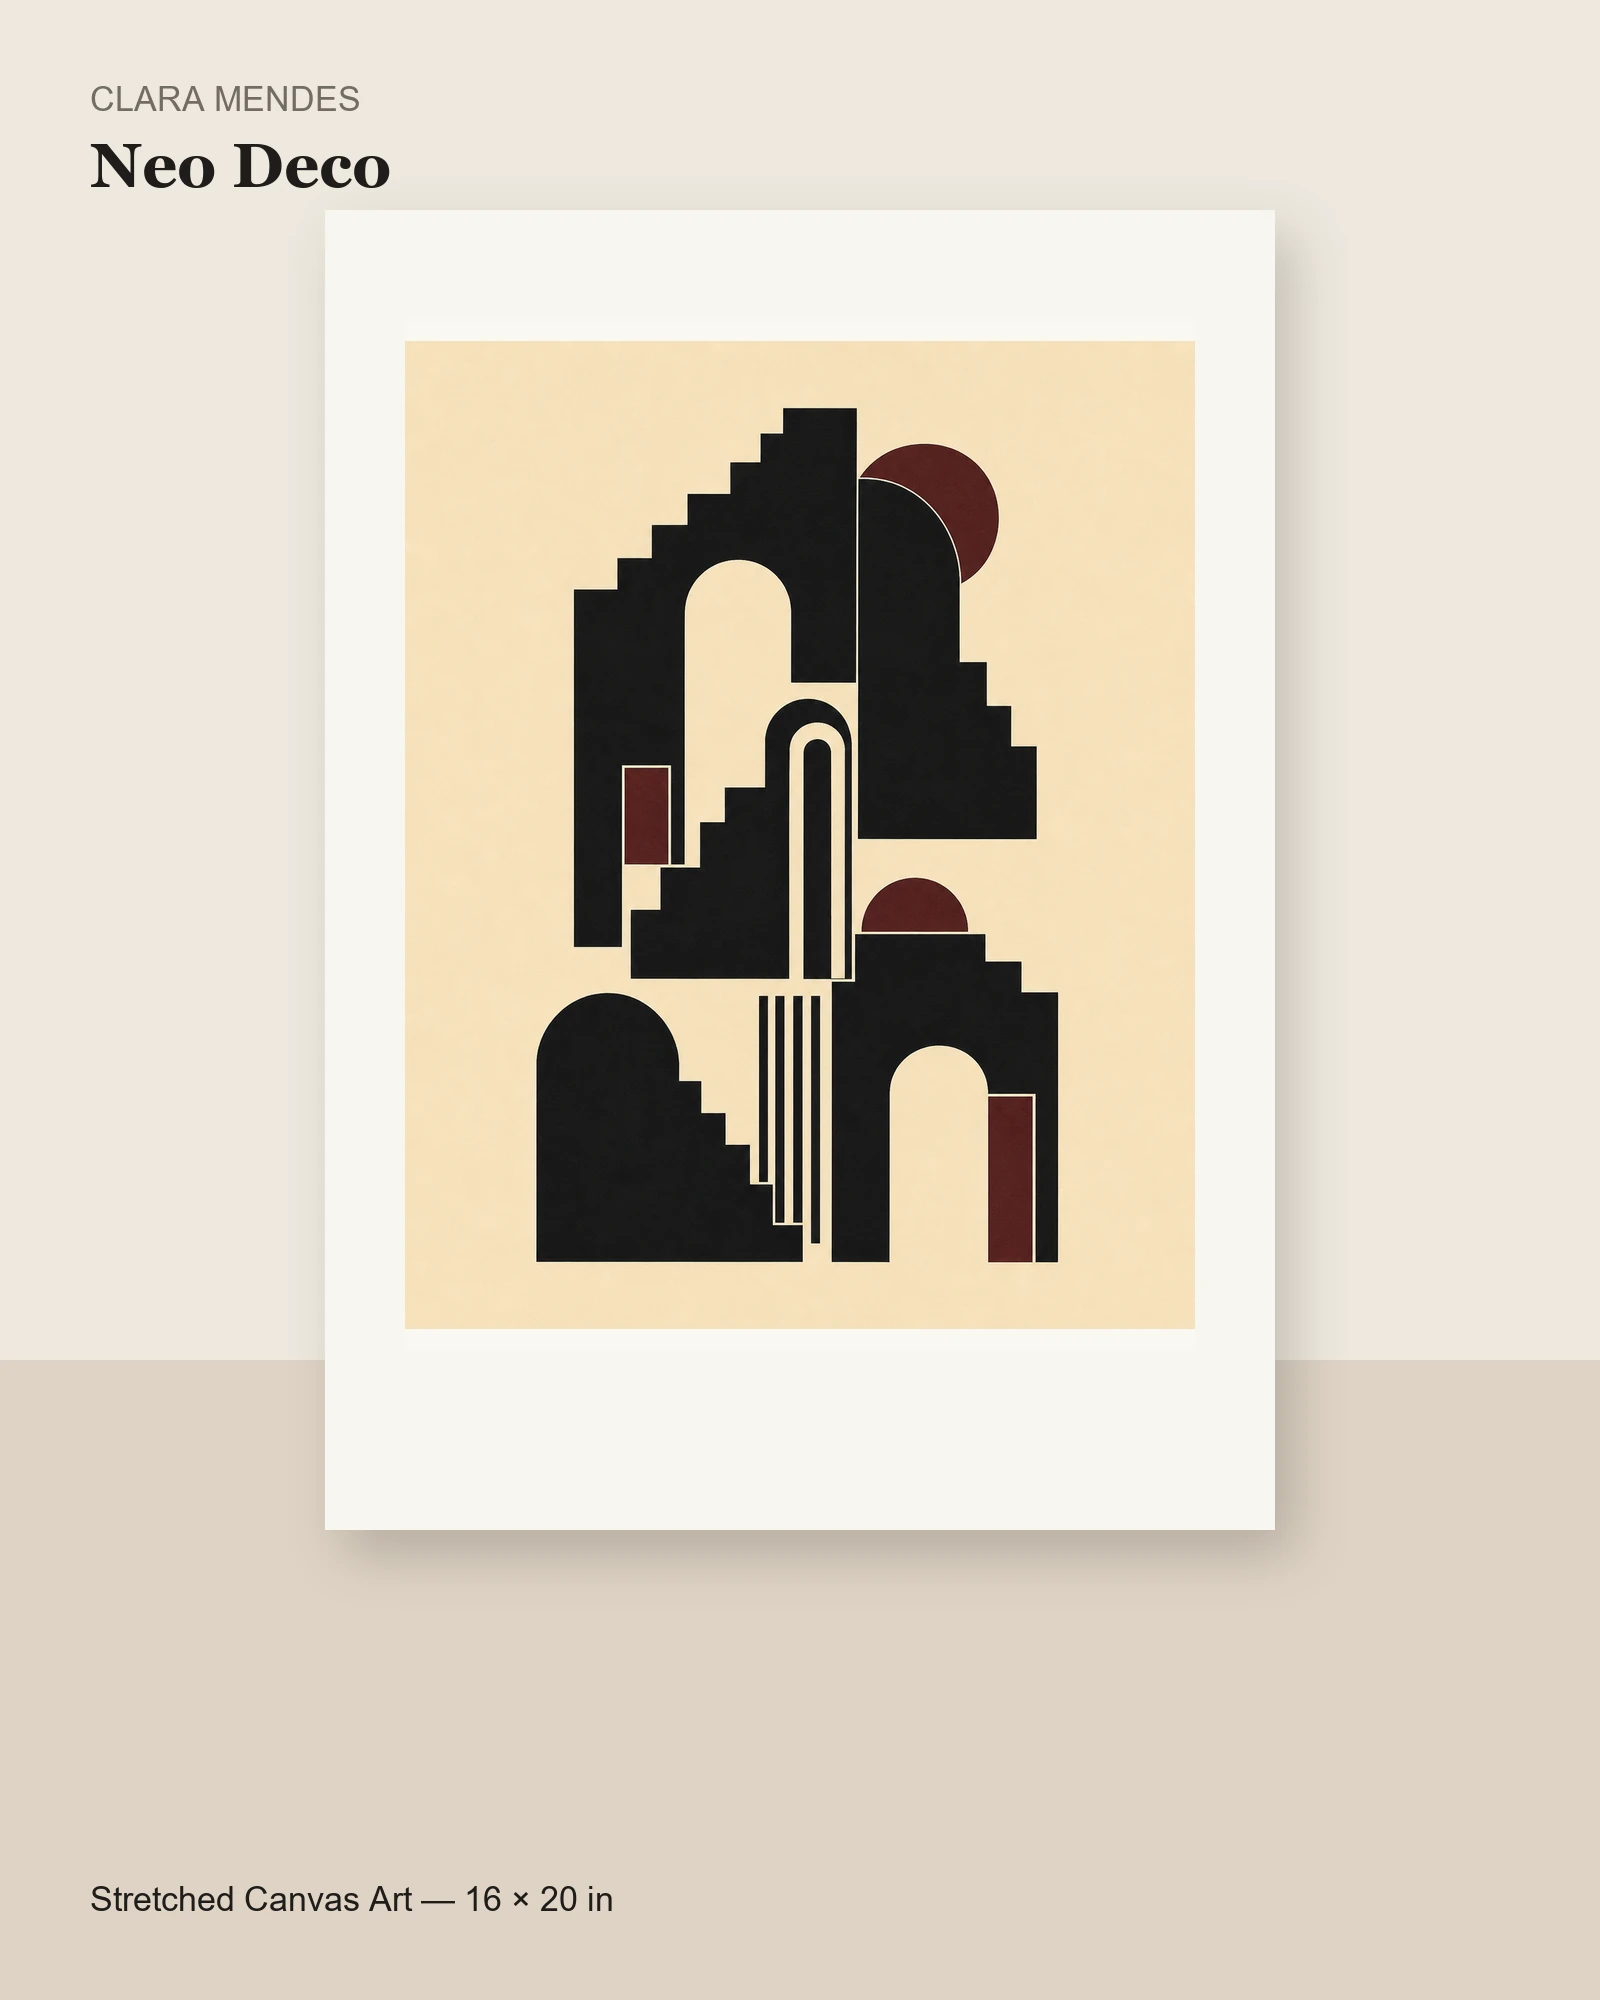
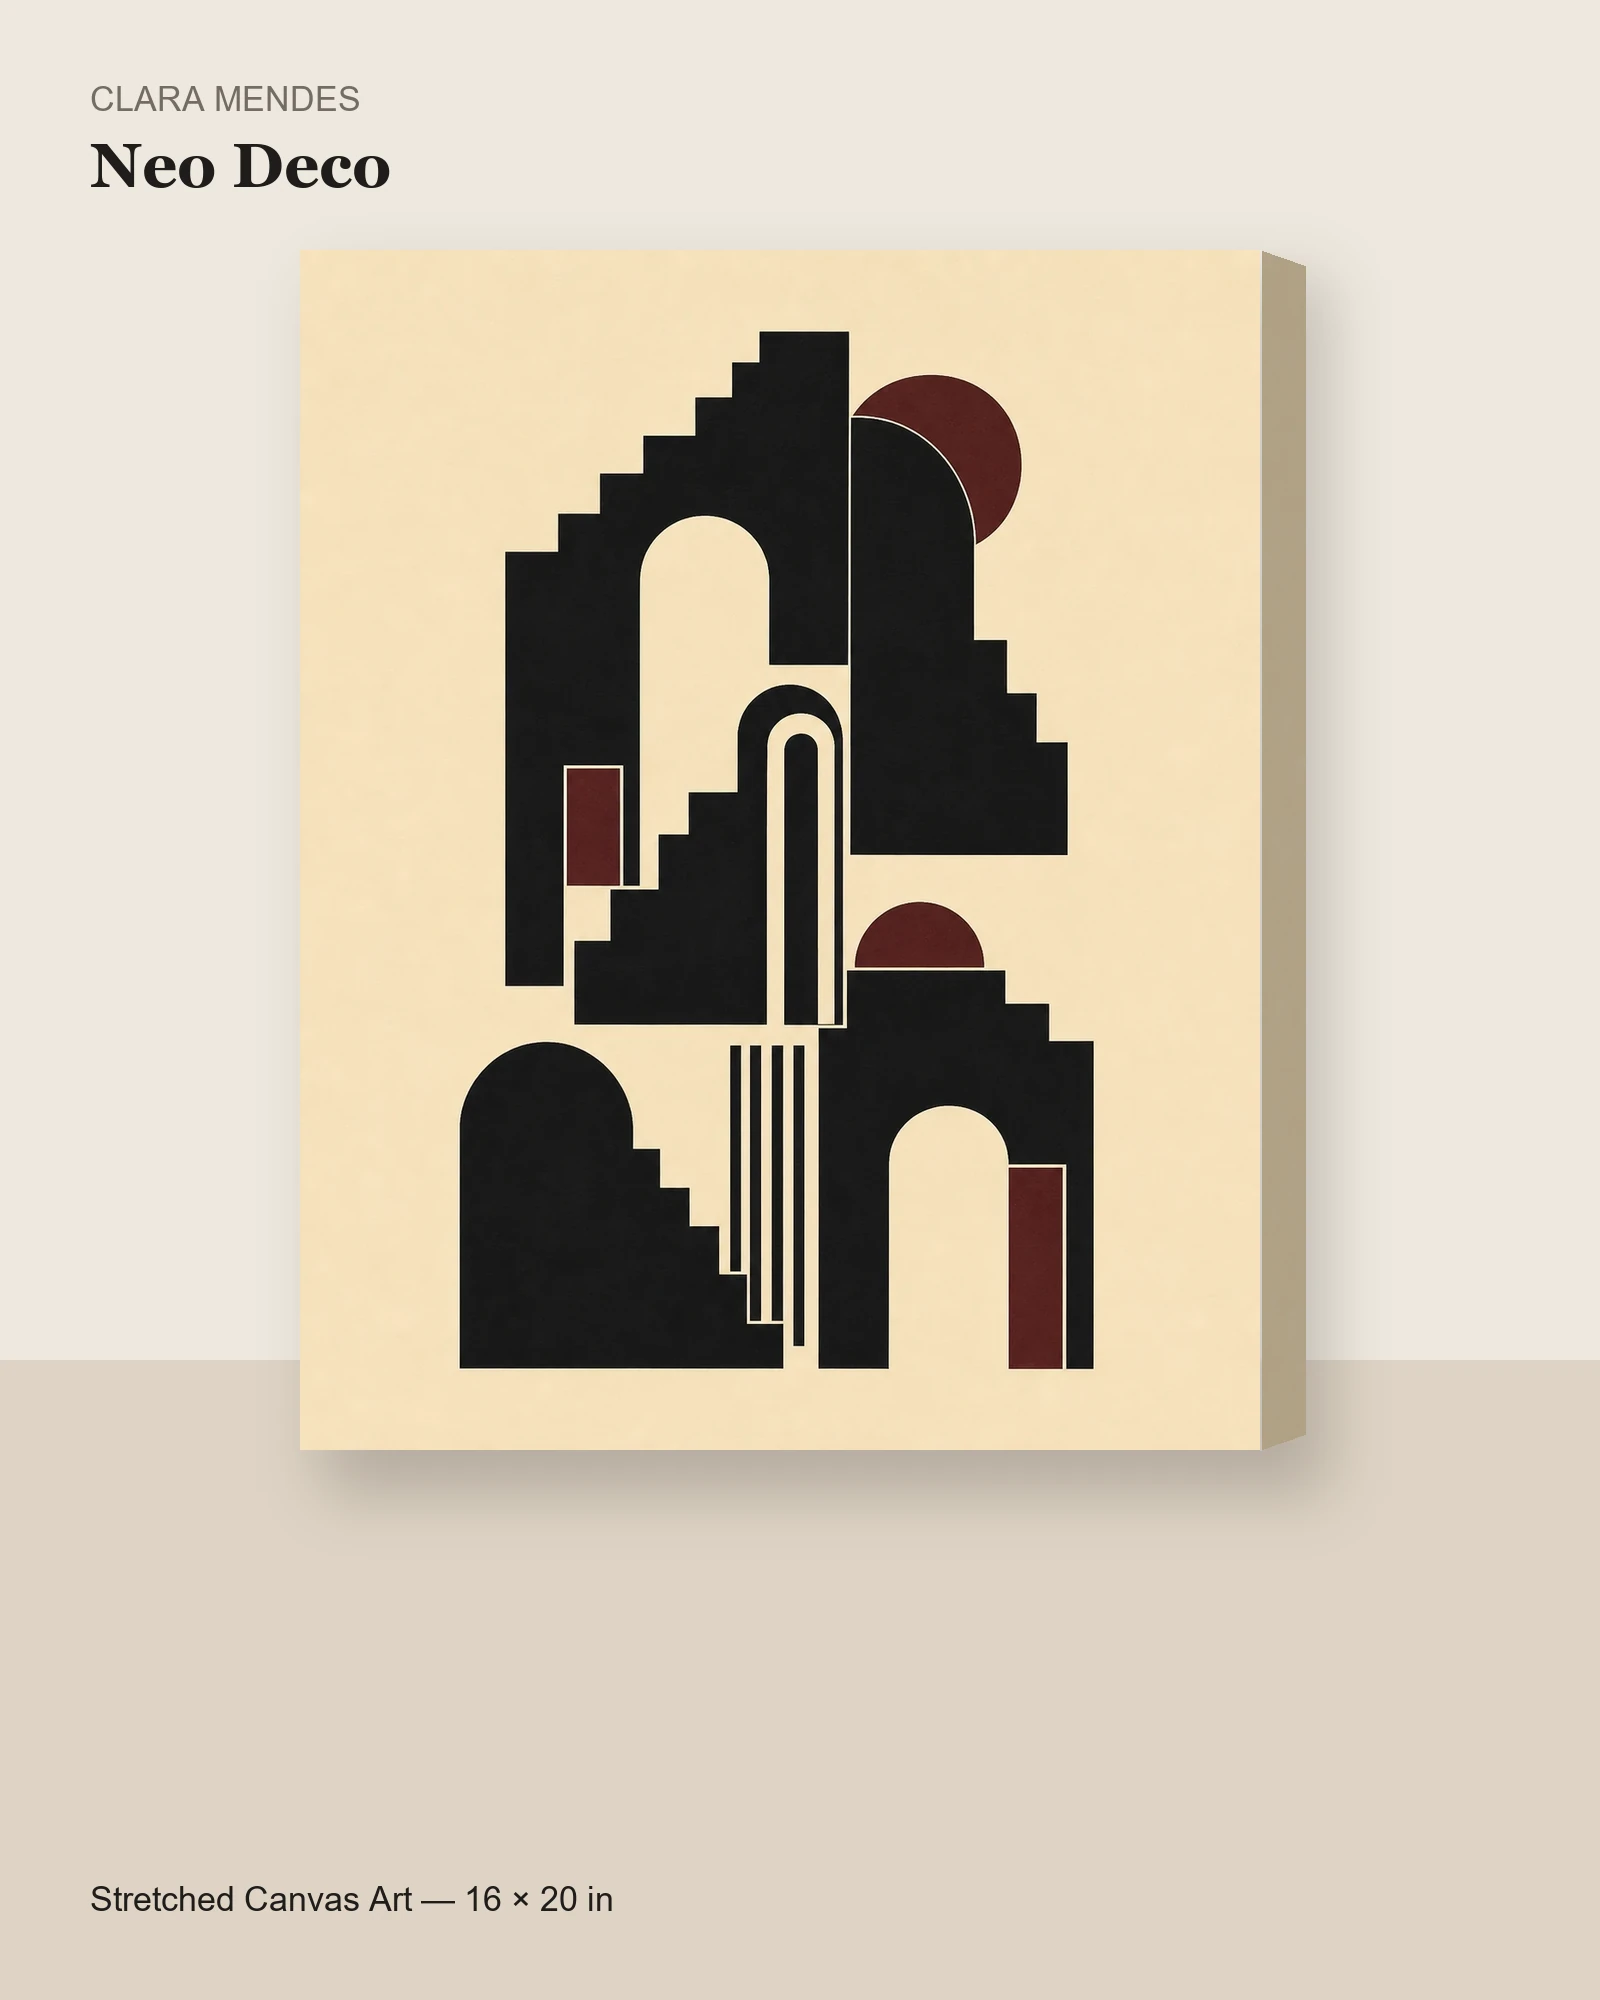
Show the stretched canvas as a wrapped canvas, not a matted print
The canvas previews framed the art in an off-white border although the
Prodigi file is full bleed with a mirror wrap. The preview now renders
the production crop edge to edge plus the mirror-wrapped side.

Changed region(s): [[0.1875, 0.124, 0.8438, 0.775]]

diff --git a/scripts/prepare-art-product-extensions.py b/scripts/prepare-art-product-extensions.py
@@ -15,7 +15,7 @@ from dataclasses import dataclass
 from pathlib import Path
 from typing import Iterable
 
-from PIL import Image, ImageDraw, ImageFilter, ImageFont, ImageOps
+from PIL import Image, ImageDraw, ImageEnhance, ImageFilter, ImageFont, ImageOps
 
 
 REPO_ROOT = Path(__file__).resolve().parent.parent
@@ -293,6 +293,31 @@ def framed_object(art: Image.Image, *, frame_color=(166, 137, 100)) -> Image.Ima
     return outer
 
 
+def wrapped_canvas(art: Image.Image) -> Image.Image:
+    """The face exactly as the production file crops it (full bleed, 4:5)
+    plus the mirror-wrapped 38 mm side, foreshortened as seen from the left."""
+    face = cover(art, (960, 1200))
+    side_width, skew = 46, 16
+    side = ImageOps.mirror(face.crop((face.width - 90, 0, face.width, face.height)))
+    side = ImageEnhance.Brightness(side.resize((side_width, face.height))).enhance(0.72)
+    side = side.convert("RGBA").transform(
+        (side_width, face.height + skew),
+        Image.Transform.QUAD,
+        (0, 0, 0, face.height - 1, side_width - 1, face.height - 1 + skew, side_width - 1, -skew),
+        Image.Resampling.BICUBIC,
+    )
+    mask = Image.new("L", side.size, 0)
+    ImageDraw.Draw(mask).polygon(
+        [(0, 0), (side_width, skew), (side_width, face.height - skew), (0, face.height)],
+        fill=255,
+    )
+    obj = Image.new("RGBA", (face.width + side_width, face.height + skew), (0, 0, 0, 0))
+    obj.paste(face, (0, 0))
+    obj.paste(side, (face.width, 0), mask)
+    ImageDraw.Draw(obj).line([(face.width, 0), (face.width, face.height)], fill=(255, 255, 255, 60), width=2)
+    return obj
+
+
 def preview_for(family: dict, capsule: Capsule) -> Image.Image:
     kind = family["assetKind"]
     if kind == "classic_frame":
@@ -304,9 +329,12 @@ def preview_for(family: dict, capsule: Capsule) -> Image.Image:
     art = open_art(capsule.item(max(1, family.get("sourceSequence", 1))))
     draw = ImageDraw.Draw(canvas)
 
-    if kind in {"large_print", "canvas"}:
+    if kind == "large_print":
         obj = framed_object(art, frame_color=(248, 246, 241))
         shadowed_layer(canvas, obj, (325, 210))
+    elif kind == "canvas":
+        # No border: the canvas file is full bleed with a mirror wrap.
+        shadowed_layer(canvas, wrapped_canvas(art), (300, 250), blur=30, offset=(22, 28))
     elif kind in {"greeting_card", "postcard"}:
         card = contain(art, (850, 1190), color=WARM_WHITE).convert("RGBA")
         shadowed_layer(canvas, card, (375, 340))

diff --git a/docs/llm-wiki/log.md b/docs/llm-wiki/log.md
@@ -1006,3 +1006,12 @@ print remains blocked by the prior frame-only owner specification; the fleece
 blanket remains below delivered cost in Cyprus.
 
 Source: [Everyday canvas release](../everyday-canvas-release-2026-09-23.md).
+
+## 2026-09-23 - Canvas previews show the wrapped canvas
+
+The five canvas product images showed the art inside an off-white border, like
+a matted print, although the Prodigi file is full bleed with a mirror wrap.
+`preview_for` in `scripts/prepare-art-product-extensions.py` now renders the
+production crop edge to edge plus the mirror-wrapped side (`wrapped_canvas`).
+The five regenerated previews replaced the live Shopify media (new images first,
+one per Artwork variant, old images deleted after readback).
